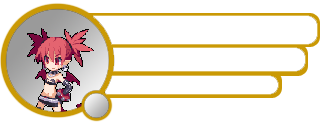
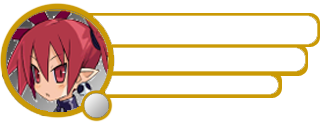
Version: 0.1.062
Added:
- New sounds for switches and levers.
- New art for the player bar.

Changes:
- Smaller optimizations.
- Fiona can no longer take damage during her flight attack or when she's
flying across the room in general, reason being that it was too easy
whilst aiming with the mouse to simply fire a large fireball into her
projectile, which was not intended.

Bug fixes:
- Fiona's conversations should now finally be fixed if you try to spam
press your way through it, she should no longer be re-spawning every
time you press the button and the way ahead should now open up.

Changed region(s): [[0.0, 0.072, 0.3385, 0.912], [0.1231, 0.912, 0.1538, 0.936]]

diff --git a/Lora's Platformer 2.0/src/Entity/Unit/Fiona.java b/Lora's Platformer 2.0/src/Entity/Unit/Fiona.java
@@ -9,9 +9,9 @@ import javax.imageio.ImageIO;
 import TileMap.TileMap;
 import Audio.JukeBox;
 import Entity.Doodad.SummoningEffect;
-import Entity.Player.Conversation;
 import Entity.Player.Player;
 import Entity.Projectile.ArcaneBall;
+import GameState.Conversation.Conversation;
 import GameState.Maps.FionasSanctum;
 import Main.Content;
 
@@ -25,7 +25,7 @@ public class Fiona extends Unit
 	protected int arcaneBallTimer;
 	protected int arcaneBallCooldown;
 	
-	protected int moving = 0; // 0 don't move, 1 = move left, 2 = move 3
+	protected int moving = 0; // 0 don't move, 1 = move left, 2 = move right
 	protected int leftX = 240;
 	protected int rightX = 940;
 	
@@ -263,10 +263,11 @@ public class Fiona extends Unit
 				{
 					if(summoningEffect == null && conversationProgress == 0)
 					{
+						player.getConversationState().lockConversation(true);
+						System.out.println("locking conversation");
 						summoningEffect = new SummoningEffect(tileMap, locationX, locationY);
 						mainMap.addEffect(summoningEffect);
 						player.getHUD().removeBoss();
-						player.getConversationState().lockConversation(true);
 						conversationProgress = 1;
 					}
 				}
@@ -352,17 +353,23 @@ public class Fiona extends Unit
 				{
 					directionY -= 0.1;
 					untouchable = true;
+					invulnerable = true;
 				}
 				else
 				{
 					
 					if(directionY != 0)
 					{
-						untouchable = false;
 						directionY = 0;
 						locationY = upperY;
-						if(locationX > leftX) moving = 1;
-						else moving = 2;
+						if(locationX > leftX)
+						{
+							moving = 1;
+						}
+						else 
+						{
+							moving = 2;
+						}
 					}
 				}
 				
@@ -374,6 +381,11 @@ public class Fiona extends Unit
 
 		}
 		
+		if(moving == 0 && directionY == 0)
+		{
+			untouchable = false;
+			invulnerable = false;
+		}
 		
 		if(moving == 1)
 		{
@@ -400,6 +412,7 @@ public class Fiona extends Unit
 		
 		if(arcaneBallMode && !stunned)
 		{
+			invulnerable = true;
 			arcaneBallTimer++;
 			
 			if(arcaneBallTimer >= arcaneBallCooldown)
@@ -463,7 +476,6 @@ public class Fiona extends Unit
 					{
 						JukeBox.play("FionaChargeup01");
 						this.setStunned(1000);
-						
 						arcaneBallMode = true;
 						return;
 					}

diff --git a/Lora's Platformer 2.0/src/GameState/Maps/FionasSanctum.java b/Lora's Platformer 2.0/src/GameState/Maps/FionasSanctum.java
@@ -9,12 +9,12 @@ import Entity.Doodad.Doodad;
 import Entity.Doodad.Activatable.ShrineFionasSanctum;
 import Entity.Doodad.Activatable.Door;
 import Entity.Doodad.Activatable.Portal;
-import Entity.Player.Conversation;
-import Entity.Player.ConversationState;
 import Entity.Player.Player;
 import Entity.Unit.Fiona;
 import GameState.GameStateManager;
 import GameState.MainMap;
+import GameState.Conversation.Conversation;
+import GameState.Conversation.ConversationState;
 import TileMap.GameOver;
 import TileMap.TileMap;
 
@@ -28,6 +28,8 @@ public class FionasSanctum extends MainMap
 	
 	protected boolean bossEngaged;
 	protected boolean bossDefeated;
+	
+	protected int unlockOnce;
 	
 	protected Conversation conversation;
 	
@@ -130,7 +132,25 @@ public class FionasSanctum extends MainMap
 		super.update();
 		
 		// We don't want the player to be able to progress the conversation whilst Fiona is spawning
-		player.getConversationState().lockConversation(fiona.getSpawning());
+		
+		if(unlockOnce != 2)
+		{
+			if(fiona.getSpawning())
+			{
+				unlockOnce = 1;
+			}
+		}
+
+		
+		if(unlockOnce == 1)
+		{
+			if(!fiona.getSpawning())
+			{
+				unlockOnce = 2;
+				player.getConversationState().lockConversation(false);
+			}
+		}
+		
 		
 		if(bossEngaged)
 		{

diff --git a/Lora's Platformer 2.0/src/GameState/Maps/MysteriousDungeon.java b/Lora's Platformer 2.0/src/GameState/Maps/MysteriousDungeon.java
@@ -9,14 +9,14 @@ import Entity.Doodad.Doodad;
 import Entity.Doodad.Activatable.Chest;
 import Entity.Doodad.Activatable.Door;
 import Entity.Item.CreateItem;
-import Entity.Player.Conversation;
-import Entity.Player.ConversationState;
 import Entity.Player.Player;
 import Entity.Unit.Slug;
 import Entity.Unit.Succubus;
 import Entity.Unit.Wolf;
 import GameState.GameStateManager;
 import GameState.MainMap;
+import GameState.Conversation.Conversation;
+import GameState.Conversation.ConversationState;
 import TileMap.GameOver;
 import TileMap.TileMap;
 
@@ -157,10 +157,9 @@ public class MysteriousDungeon extends MainMap
 			{
 				if(!player.getInConversation())
 				{
-					int[] whoTalks = new int[]{0};		
-					player.getConversationState().startConversation(player, null, null, conversation.mysteriousDungeonTorchMessage, whoTalks);
+					player.getConversationState().startConversation(player, null, null, conversation.mysteriousDungeonTorchMessage, new int[] { 0 });
 				}
-				else if(player.getConversationState().getConversationTracker() >= player.getConversationState().getConversationLength())
+				else if(player.getConversationState().getConversationOver())
 				{
 					player.getConversationState().endConversation();
 					dungeonIntroduction = true;

diff --git a/Lora's Platformer 2.0/src/GameState/Conversation/ConversationState.java b/Lora's Platformer 2.0/src/GameState/Conversation/ConversationState.java
@@ -1,4 +1,4 @@
-package Entity.Player;
+package GameState.Conversation;
 
 import java.awt.AWTException;
 import java.awt.Color;
@@ -12,6 +12,7 @@ import java.util.ArrayList;
 import com.sun.glass.events.KeyEvent;
 import Entity.Doodad.Doodad;
 import Entity.Item.Item;
+import Entity.Player.Player;
 import Entity.Unit.Unit;
 import GameState.GameState;
 import GameState.GameStateManager;
@@ -91,7 +92,10 @@ public class ConversationState  extends GameState
 	
 	
 	public boolean conversationLocked() { return conversationLocked; }
-	public void lockConversation(boolean b) { conversationLocked = b; }
+	public void lockConversation(boolean b) 
+	{ 
+		conversationLocked = b; 	
+	}
 	
 	
 	public void displayItem
@@ -166,7 +170,6 @@ public class ConversationState  extends GameState
 		{
 			return;
 		}
-		
 		
 		conversationTracker++;
 		choiceMade = choiceSelected;
@@ -302,7 +305,7 @@ public class ConversationState  extends GameState
 					
 					Rectangle textRectangle = new Rectangle(
 							textLocationX,
-							textLocationY + 10,
+							textLocationY - textHeight / 2,
 							textWidth,
 							textHeight						
 							);

diff --git a/Lora's Platformer 2.0/src/Entity/Doodad/Activatable/ShrineFionasSanctum.java b/Lora's Platformer 2.0/src/Entity/Doodad/Activatable/ShrineFionasSanctum.java
@@ -3,11 +3,11 @@ package Entity.Doodad.Activatable;
 import TileMap.TileMap;
 import Audio.JukeBox;
 import Entity.Doodad.Doodad;
-import Entity.Player.Conversation;
-import Entity.Player.ConversationState;
 import Entity.Player.Player;
 import Entity.Unit.Fiona;
 import GameState.GameStateManager;
+import GameState.Conversation.Conversation;
+import GameState.Conversation.ConversationState;
 import GameState.Maps.FionasSanctum;
 import Main.Content;
 
@@ -29,6 +29,8 @@ public class ShrineFionasSanctum extends Doodad
 	protected Conversation conversation;
 	
 	protected ConversationState conversationBox;
+	
+	protected int currentProgress = 0;
 	
 	public ShrineFionasSanctum(
 			TileMap tileMap,
@@ -147,8 +149,9 @@ public class ShrineFionasSanctum extends Doodad
 				JukeBox.play("Close");
 			}
 			
-			else if(conversationBox.getConversationTracker() == 5)
+			else if(conversationBox.getConversationTracker() == 5 && currentProgress != 5)
 			{
+				currentProgress = 5;
 				// Fiona reveals herself
 				fiona.setPosition(player.getLocationX() + 200, player.getLocationY() - 300);
 				fiona.setSpawning(true);

diff --git a/Lora's Platformer 2.0/src/Main/GamePanel.java b/Lora's Platformer 2.0/src/Main/GamePanel.java
@@ -20,7 +20,7 @@ public class GamePanel
 	public static int WIDTH = 1200;
 	public static int HEIGHT = 900;
 	
-	public static final String version = "0.1.061";
+	public static final String version = "0.1.062";
 		
 	// Game thread
 	private Thread thread;
@@ -70,7 +70,6 @@ public class GamePanel
 	      		{
 		    		gameStateManager.mouseClicked(mouse);
 	      		}
-
 	    	}
 
 	    	public void mouseEntered(MouseEvent mouse) 
@@ -79,7 +78,6 @@ public class GamePanel
 	    		{
 	    			gameStateManager.mouseEntered(mouse);
 	    		}
-	    		
 	    	}
 
 	    	public void mouseExited(MouseEvent mouse) 
@@ -125,14 +123,6 @@ public class GamePanel
 	    		}
 			}
 		});
-	      
-//	      class MyMouseMotionListener extends MouseMotionAdapter {
-//	    	  public void mouseDragged(MouseEvent e) {
-//	    	  String s = "Mouse dragging: X = "+ e.getX()
-//	    	  + " Y = " + e.getY();
-//	    	  tf.setText(s);
-//	    	  }
-//	    	  }
 	}
 	
 	public void addNotify()

diff --git a/Lora's Platformer 2.0/src/GameState/Inventory/InventoryState.java b/Lora's Platformer 2.0/src/GameState/Inventory/InventoryState.java
@@ -105,7 +105,7 @@ public class InventoryState extends GameState
 					20
 					);
 			
-			font = new Font("Arial", Font.PLAIN, 28);
+			font = new Font("Arial", Font.PLAIN, 14);
 			
 
 			
@@ -205,11 +205,12 @@ public class InventoryState extends GameState
 								null
 								);
 						
+						graphics.setColor(Color.WHITE);
 						graphics.drawString
 						(
 							items[i][j].getStacks() + "",
-							inventorySlotLocationX,
-							inventorySlotLocationY
+							inventorySlotLocationX + inventorySlotWidth / 2,
+							inventorySlotLocationY + inventorySlotHeight + 12
 						);
 					}
 					

diff --git a/Lora's Platformer 2.0/src/GameState/Maps/Tutorial.java b/Lora's Platformer 2.0/src/GameState/Maps/Tutorial.java
@@ -5,13 +5,13 @@ import java.io.IOException;
 import javax.imageio.ImageIO;
 
 import Audio.JukeBox;
-import Entity.Player.Conversation;
-import Entity.Player.ConversationState;
 import Entity.Player.HUD;
 import Entity.Player.Player;
 import Entity.Unit.Succubus;
 import GameState.GameStateManager;
 import GameState.MainMap;
+import GameState.Conversation.Conversation;
+import GameState.Conversation.ConversationState;
 import TileMap.Background;
 import TileMap.GameOver;
 import TileMap.TileMap;

diff --git a/Lora's Platformer 2.0/src/Entity/Doodad/Activatable/Door.java b/Lora's Platformer 2.0/src/Entity/Doodad/Activatable/Door.java
@@ -3,10 +3,10 @@ package Entity.Doodad.Activatable;
 import Audio.JukeBox;
 import Entity.Doodad.Doodad;
 import Entity.Item.Item;
-import Entity.Player.Conversation;
-import Entity.Player.ConversationState;
 import Entity.Player.Player;
 import GameState.GameStateManager;
+import GameState.Conversation.Conversation;
+import GameState.Conversation.ConversationState;
 import Main.Content;
 import TileMap.TileMap;
 

diff --git a/Lora's Platformer 2.0/src/GameState/Maps/DeepWoods.java b/Lora's Platformer 2.0/src/GameState/Maps/DeepWoods.java
@@ -5,10 +5,10 @@ import java.io.IOException;
 import javax.imageio.ImageIO;
 
 import Entity.Doodad.Activatable.Door;
-import Entity.Player.ConversationState;
 import Entity.Player.Player;
 import GameState.GameStateManager;
 import GameState.MainMap;
+import GameState.Conversation.ConversationState;
 import TileMap.Background;
 import TileMap.GameOver;
 import TileMap.TileMap;

diff --git a/Lora's Platformer 2.0/src/Entity/Doodad/Activatable/StatueSave.java b/Lora's Platformer 2.0/src/Entity/Doodad/Activatable/StatueSave.java
@@ -2,9 +2,9 @@ package Entity.Doodad.Activatable;
 
 import Audio.JukeBox;
 import Entity.Doodad.Doodad;
-import Entity.Player.Conversation;
-import Entity.Player.ConversationState;
 import Entity.Player.Player;
+import GameState.Conversation.Conversation;
+import GameState.Conversation.ConversationState;
 import Main.Content;
 import Main.JSONWriter;
 import TileMap.TileMap;

diff --git a/Lora's Platformer 2.0/src/Entity/Doodad/Activatable/Chest.java b/Lora's Platformer 2.0/src/Entity/Doodad/Activatable/Chest.java
@@ -6,9 +6,9 @@ import Audio.JukeBox;
 import Entity.Doodad.Doodad;
 import Entity.Item.CreateItem;
 import Entity.Item.Item;
-import Entity.Player.Conversation;
-import Entity.Player.ConversationState;
 import Entity.Player.Player;
+import GameState.Conversation.Conversation;
+import GameState.Conversation.ConversationState;
 
 public class Chest extends Doodad
 {
